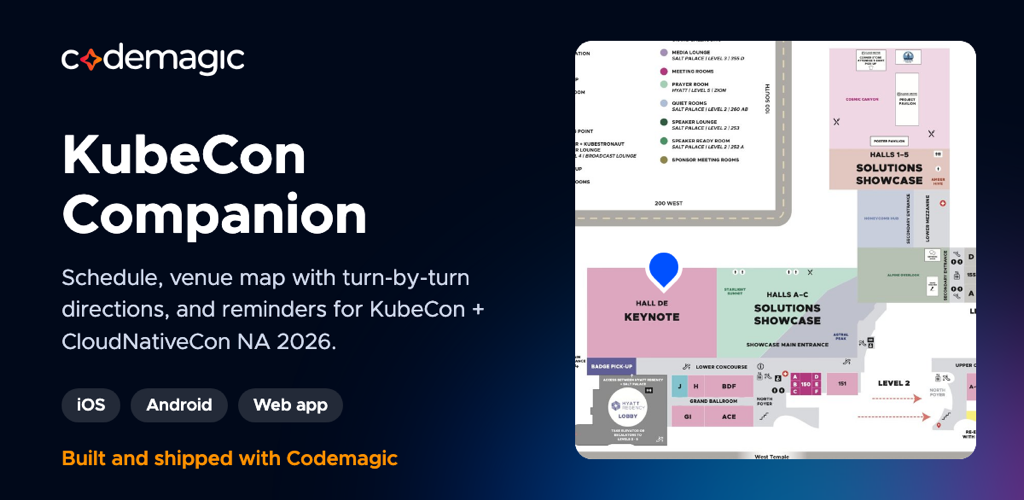
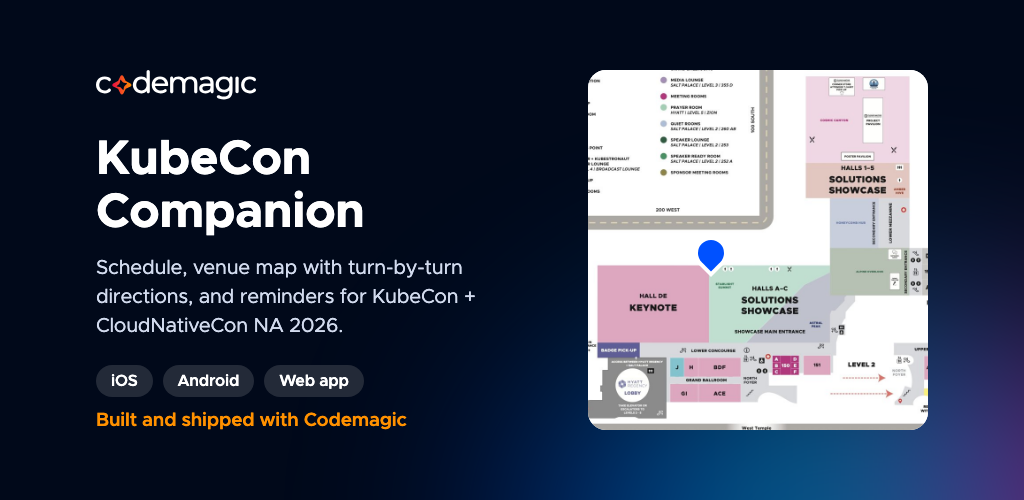
Play feature graphic: rebuilt at 1024x500 with safe margins

diff --git a/store/google_play/feature-graphic.html b/store/google_play/feature-graphic.html
@@ -1,0 +1,28 @@
+<!doctype html><html><head><meta charset="utf-8"><style>
+@font-face{font-family:M;src:url(Metropolis-Regular.otf);font-weight:400}
+@font-face{font-family:M;src:url(Metropolis-SemiBold.otf);font-weight:600}
+@font-face{font-family:M;src:url(Metropolis-Bold.otf);font-weight:700}
+html,body{margin:0;width:1024px;height:500px;overflow:hidden;background:#01091A;font-family:M,sans-serif;letter-spacing:-.2px;position:relative}
+.glow{position:absolute;width:760px;height:420px;right:-240px;bottom:-240px;background:linear-gradient(90deg,#0031EA,#008BF7,#00CEFF,#FE19FF,#FF4D13);filter:blur(110px);opacity:.5;border-radius:50%}
+.map{position:absolute;right:96px;top:70px;width:340px;height:360px;border-radius:18px;overflow:hidden;background:#fff}
+.map img{width:100%;height:100%;object-fit:cover;object-position:30% 55%}
+.pin{position:absolute;width:26px;height:26px;border-radius:50% 50% 50% 0;background:#0051FF;transform:rotate(-45deg);box-shadow:0 0 0 4px #fff;right:300px;top:240px}
+.left{position:absolute;left:96px;top:70px;width:440px}
+.logo{height:30px;display:block}
+h1{color:#fff;font-weight:700;font-size:48px;line-height:1.1;margin:34px 0 14px}
+p{color:#D2DBEE;font-size:20px;line-height:1.45;margin:0}
+.chips{margin-top:24px;display:flex;gap:10px}
+.chip{background:#232A38;color:#fff;font-weight:600;font-size:16px;padding:8px 15px;border-radius:999px}
+.foot{position:absolute;left:96px;bottom:70px;color:#FF9100;font-weight:600;font-size:19px}
+</style></head><body>
+<div class="glow"></div>
+<div class="map"><img src="mapcrop.jpg"></div>
+<div class="pin"></div>
+<div class="left">
+<img class="logo" src="logo-white.svg">
+<h1>KubeCon Companion</h1>
+<p>Schedule, venue map with turn-by-turn directions, and reminders for KubeCon + CloudNativeCon NA 2026.</p>
+<div class="chips"><span class="chip">iOS</span><span class="chip">Android</span><span class="chip">Web app</span></div>
+</div>
+<div class="foot">Built and shipped with Codemagic</div>
+</body></html>
